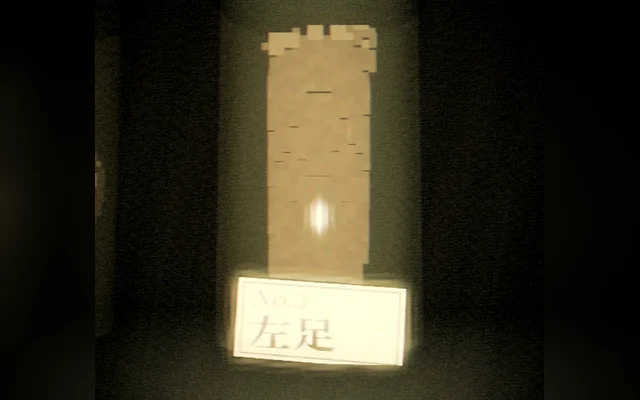
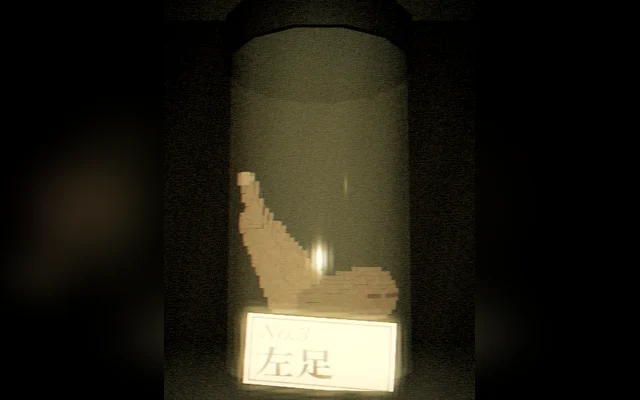
1.7.2: re-check of the 5th play test - ひなた 1.60 m like the dot version (at 1.80 m the 0.76 m desks came to her crotch and read small), the dot notice and hospital map 6 mm off their board/wall (were 1.4 cm), the foot jar seen from its side (was a pale slab), its card picture re-shot; kit 1.39.14 d4e

diff --git a/js/kit/specimen-parts.js b/js/kit/specimen-parts.js
@@ -1,8 +1,7 @@
-/* game-kit 799ff6ce: js/specimen-parts.js — edit in game-kit and run tools/kit-sync.js */
 // Specimens in formalin jars as fine dot models (1.38.0, 水無瀬病院 2026-11-23 #8 「標本室のホルマリンが改善されていないです。腕や臓器など
 // いろいろな物をホルマリンにつけてください」). Before: every jar held the same round lump, so a wall of jars read as jam jars. Now each jar
 // holds one thing you know at a glance - a hand, an arm with its hand, a heart with its vessels, a brain with its folds, a pair of
-// kidneys, eyes looking out, a foot standing on its heel, cut fingers - made of the shapes of js/fp-voxel.js (boxes, capsules,
+// kidneys, eyes looking out, a foot seen from its side, cut fingers - made of the shapes of js/fp-voxel.js (boxes, capsules,
 // ellipsoids; cut: true carves) and filled into a 5 mm voxel grid (the dot taste; a dot game grades it to its palette, js/dot-world.js
 // keeps vertex colours). No unborn shapes (the brief of 水無瀬病院: nothing that reads as a foetus).
 //
@@ -85,14 +84,23 @@ const SPECS = {
     ], at: [x, u, f], ry, rx });
     return [eye(-0.03, 0.05, 0.01, '#3e5f72', 0.2, 0.1), eye(0.028, 0.09, 0.0, '#5a3d22', -0.25, -0.1), eye(-0.006, 0.145, 0.012, '#4a5a3a', 0.05, 0.2)];
   },
-  foot: () => [
-    // a foot stood on its heel, the toes up: the sole to the viewer, the cut ankle with its bone at the back
-    { ell: [0, 0.03, -0.01], r: [0.026, 0.03, 0.03], c: SKIN2, n: 0.2 },
-    { cap: [[0, 0.03, 0], [0, 0.15, 0.008]], r: 0.03, r1: 0.034, c: SKIN, n: 0.2 },
-    { cap: [[0, 0.04, -0.03], [0, 0.07, -0.05]], r: 0.026, c: SKIN2, n: 0.2 },
-    { ell: [0, 0.075, -0.052], r: [0.022, 0.006, 0.022], c: CUT, n: 0.3 }, { ell: [0.004, 0.08, -0.054], r: [0.008, 0.004, 0.008], c: BONE },
-    ...[[-0.026, 0.026], [-0.012, 0.03], [0.002, 0.028], [0.015, 0.024], [0.026, 0.02]].flatMap(([x, l], i) => finger(x, 0.17, 0.008, x * 1.05, 0.17 + l * 0.7, 0.012, i ? 0.0075 : 0.0105)),
-  ],
+  foot: () => {
+    // 1.39.14 (水無瀬病院 第 5 回 #9 の再確認): a left foot seen from its inner side, the heel low, the toes up to the right, the leg cut
+    // above the ankle. Stood on its heel with the sole to the viewer (before) it read as a pale slab in the jar and on its card.
+    // (a, n): a from the heel to the toes, n up from the sole; the toes tipped up 25 degrees, so they stand clear of the label; f: the inner side
+    // (the big toe) towards the viewer
+    const T = 70 * Math.PI / 180, P = (a, n, f = 0) => [a * Math.cos(T) - n * Math.sin(T), a * Math.sin(T) + n * Math.cos(T), f];
+    return [
+      { ell: P(0.032, 0.03), r: [0.03, 0.03, 0.028], c: SKIN2, n: 0.2 },   // the heel
+      { cap: [P(0.035, 0.032), P(0.165, 0.022)], r: 0.028, r1: 0.022, c: SKIN, n: 0.2 },   // the sole and the side of the foot
+      { cap: [P(0.06, 0.058), P(0.15, 0.034)], r: 0.024, r1: 0.016, c: SKIN, n: 0.2 },   // the instep
+      { cap: [P(0.05, 0.05), P(0.04, 0.12)], r: 0.03, r1: 0.033, c: SKIN2, n: 0.2 },   // the leg above the ankle
+      { ell: P(0.04, 0.123), r: [0.032, 0.006, 0.032], c: CUT, n: 0.3 }, { ell: P(0.04, 0.126), r: [0.009, 0.005, 0.009], c: BONE },   // the cut, the bone
+      { ell: P(0.058, 0.07, 0.024), r: [0.008, 0.008, 0.006], c: SKIN2, n: 0.2 },   // the ankle bone on the inner side
+      // five toes, the big toe nearest, the little toe furthest back and shortest; the nails up
+      ...[[0.022, 0.05, 0.0105], [0.01, 0.042, 0.0085], [-0.002, 0.036, 0.008], [-0.013, 0.03, 0.0075], [-0.022, 0.024, 0.007]].flatMap(([f, l, r]) => finger(...P(0.165, 0.026, f), ...P(0.165 + l, 0.03, f), r)),
+    ];
+  },
   fingers: () => [
     ...finger(-0.03, 0.03, 0, -0.012, 0.085, 0.01, 0.009), ...finger(0.02, 0.06, -0.01, 0.045, 0.1, 0.008, 0.009),
     ...finger(-0.025, 0.13, 0.005, 0.015, 0.15, 0.012, 0.0085), ...finger(0.01, 0.17, -0.004, 0.03, 0.215, 0.01, 0.008),

diff --git a/js/kit/game-core.js b/js/kit/game-core.js
@@ -1,4 +1,4 @@
-/* game-kit 53118a5e: js/game-core.js — edit in game-kit and run tools/kit-sync.js */
+/* game-kit d4e88bd: js/game-core.js — edit in game-kit and run tools/kit-sync.js */
 // The standard bootstrap of a 3D first-person game (docs/standard-3d.md). Wires the standard modules from DATA (game.json + data/*.json):
 //   runtime base  render-presets (renderer, lights, fog, post, quality tiers; the preset may be a name or { base, ...overrides }),
 //                 frame-guard (?perf overlay, dynamic resolution, job queue), controller (walk / look / touch),
@@ -78,7 +78,7 @@ import { installTimedShot } from './timed-shot.js';
 import { VoiceQueue } from './voice-queue.js';
 import { installNpcAudit } from './npc-audit.js';
 
-export const CORE_VERSION = '1.39.12';
+export const CORE_VERSION = '1.39.14';
 // the mini game library's types (js/mg-library.js LIBRARY; test/story-hooks.test.mjs keeps the two equal): game.json "minigames" naming one of these loads the library
 export const MG_LIB_TYPES = ['pour', 'turn-dials', 'match-mark', 'timing', 'code-drums', 'tune-radio', 'trace-path', 'slide-tiles', 'search-dark', 'rotate-pipes', 'sort-items', 'memory-pairs', 'lock-pick', 'photo-focus', 'rhythm-taps', 'connect-dots', 'balance-scale', 'echo-bells', 'switch-panel', 'rotate-pieces', 'count-shadows', 'spot-difference', 'maze-path', 'cipher-wheel', 'steady-hand', 'pump-gauge', 'order-steps', 'compass-bearing', 'mirror-beam', 'kana-word', 'jug-measure', 'hold-breath', 'layer-board', 'darkroom-develop', 'tape-splice', 'switchboard', 'steam-letter', 'puzzle-box', 'rubbing', 'knot-untangle', 'torn-paper', 'safe-listen', 'footprint-track'];
 const $ = (id) => document.getElementById(id);
@@ -331,7 +331,7 @@ export function createGame(cfg) {
     if (bb.isEmpty()) return;
     const n = r.normal, plane = r.point.x * n.x + r.point.y * n.y + r.point.z * n.z;
     let back = Infinity; for (const x of [bb.min.x, bb.max.x]) for (const y of [bb.min.y, bb.max.y]) for (const z of [bb.min.z, bb.max.z]) back = Math.min(back, x * n.x + y * n.y + z * n.z);
-    const d = plane + 0.006 - back; if (Math.abs(d) > 0.003 && Math.abs(d) < 0.4) { mesh.position.x += n.x * d; mesh.position.y += n.y * d; mesh.position.z += n.z * d; mesh.userData.flushed = +d.toFixed(3); }
+    const d = plane - back;   // 1.39.13: r.point is already the paste gap (6 mm) off the wall; adding 6 mm more left every pasted board 1.2 cm off (水無瀬病院 掲示・案内図) if (Math.abs(d) > 0.003 && Math.abs(d) < 0.4) { mesh.position.x += n.x * d; mesh.position.y += n.y * d; mesh.position.z += n.z * d; mesh.userData.flushed = +d.toFixed(3); }
   };
   ctx.flushPasted = () => { for (const mesh of pickups.values()) { const P = mesh.userData.pasted; if (!P || !P.at) continue; flushBack(mesh, { point: P.at, normal: P.normal }); } };
   ctx.seatPickups = () => {

diff --git a/dot/js/dot/index.js b/dot/js/dot/index.js
@@ -204,6 +204,9 @@ export default async function dotLayer(ext, { manifest, data }) {
       if (GM.genBody) { const gp = new THREE.Vector3(); GM.genBody.getWorldPosition(gp); D.pump = machine('pump-unit', null, { x: 1.0, y: gp.y - 0.5, z: 9.9 }, 0.45); }
       void fyP;
       // the documents: their paper model -> the dot part, standing on the wall or lying on the desk
+      // 1.7.2 (re-check of the 5th play test #1 「記録版が壁から離れて見えます」): the ray toward the wall stopped on the document's own pick box
+      // (already 6 mm out) and the part went 8 mm in front of that - the notice 1.4 cm off its board, the hospital map 1.4 cm off the wall. The
+      // ray skips the document itself; the part's back goes 6 mm off the board or the wall.
       for (const pk of W.interactables || []) {
         const nm = String(pk.name || ''), id = nm.slice(4), k = nm.startsWith('doc:') && DOC_STACK[id];
         if (!k || !stackIndex[k] || pk.userData.dotDone) continue;
@@ -214,7 +217,7 @@ export default async function dotLayer(ext, { manifest, data }) {
         const m = natural(k, flat ? 'floor' : 'wall');
         const p = pk.getWorldPosition(new THREE.Vector3());
         if (flat) { m.rotation.y = 0; m.position.copy(pk.worldToLocal(new THREE.Vector3(p.x, p.y - (pk.geometry && pk.geometry.parameters ? pk.geometry.parameters.height / 2 : 0), p.z))); }
-        else { const dir = new THREE.Vector3(Math.sin(face), 0, Math.cos(face)); ray.set(p.clone().addScaledVector(dir, 0.5), dir.clone().negate()); const hit = ray.intersectObjects(surfaces, false)[0]; const w = hit ? hit.point.clone().addScaledVector(dir, 0.008) : p; w.y = p.y - (stackIndex[k].n * stackIndex[k].mpp) / 2; m.position.copy(pk.worldToLocal(w)); m.rotation.y = face - pk.rotation.y; }
+        else { const dir = new THREE.Vector3(Math.sin(face), 0, Math.cos(face)); ray.set(p.clone().addScaledVector(dir, 0.5), dir.clone().negate()); const own = (o) => { for (let q = o; q; q = q.parent) if (q === pk) return true; return false; }; const hit = ray.intersectObjects(surfaces, false).find((h) => !own(h.object)); const w = hit ? hit.point.clone().addScaledVector(dir, 0.006) : p; w.y = p.y - (stackIndex[k].n * stackIndex[k].mpp) / 2; m.position.copy(pk.worldToLocal(w)); m.rotation.y = face - pk.rotation.y; }
         pk.add(m);
         D.swapped.push([id, k, flat ? 'flat' : 'wall']);
       }

diff --git a/js/ext/people.js b/js/ext/people.js
@@ -156,7 +156,9 @@ export function buildChimera() {
 
 /** ひなた: the kit's person; poses: 'idle', 'scared', 'crouch' (holding the valve / the ankle) */
 export function buildHinata() {
-  const ch = makeCharacter({ female: true, hairStyle: 'ponytail', coat: 0x4c5a52, shirt: 0xd8d4c8, trousers: 0x2a2f3a, shoes: 0x2a2624, hair: 0x241a14, blob: true });
+  // 1.7.2 (re-check of the 5th play test #2 「机が他のオブジェクトに比べて小さく感じる（キャラの大きさに合わせてください）」): the kit person is
+  // 1.80 m, so beside a 0.76 m desk the top came to her crotch and every desk read small. She is 1.60 m now, as in the dot version.
+  const ch = makeCharacter({ female: true, hairStyle: 'ponytail', coat: 0x4c5a52, shirt: 0xd8d4c8, trousers: 0x2a2f3a, shoes: 0x2a2624, hair: 0x241a14, blob: true, scale: 0.89 });
   ch.root.name = 'person:hinata';
   return ch;
 }
